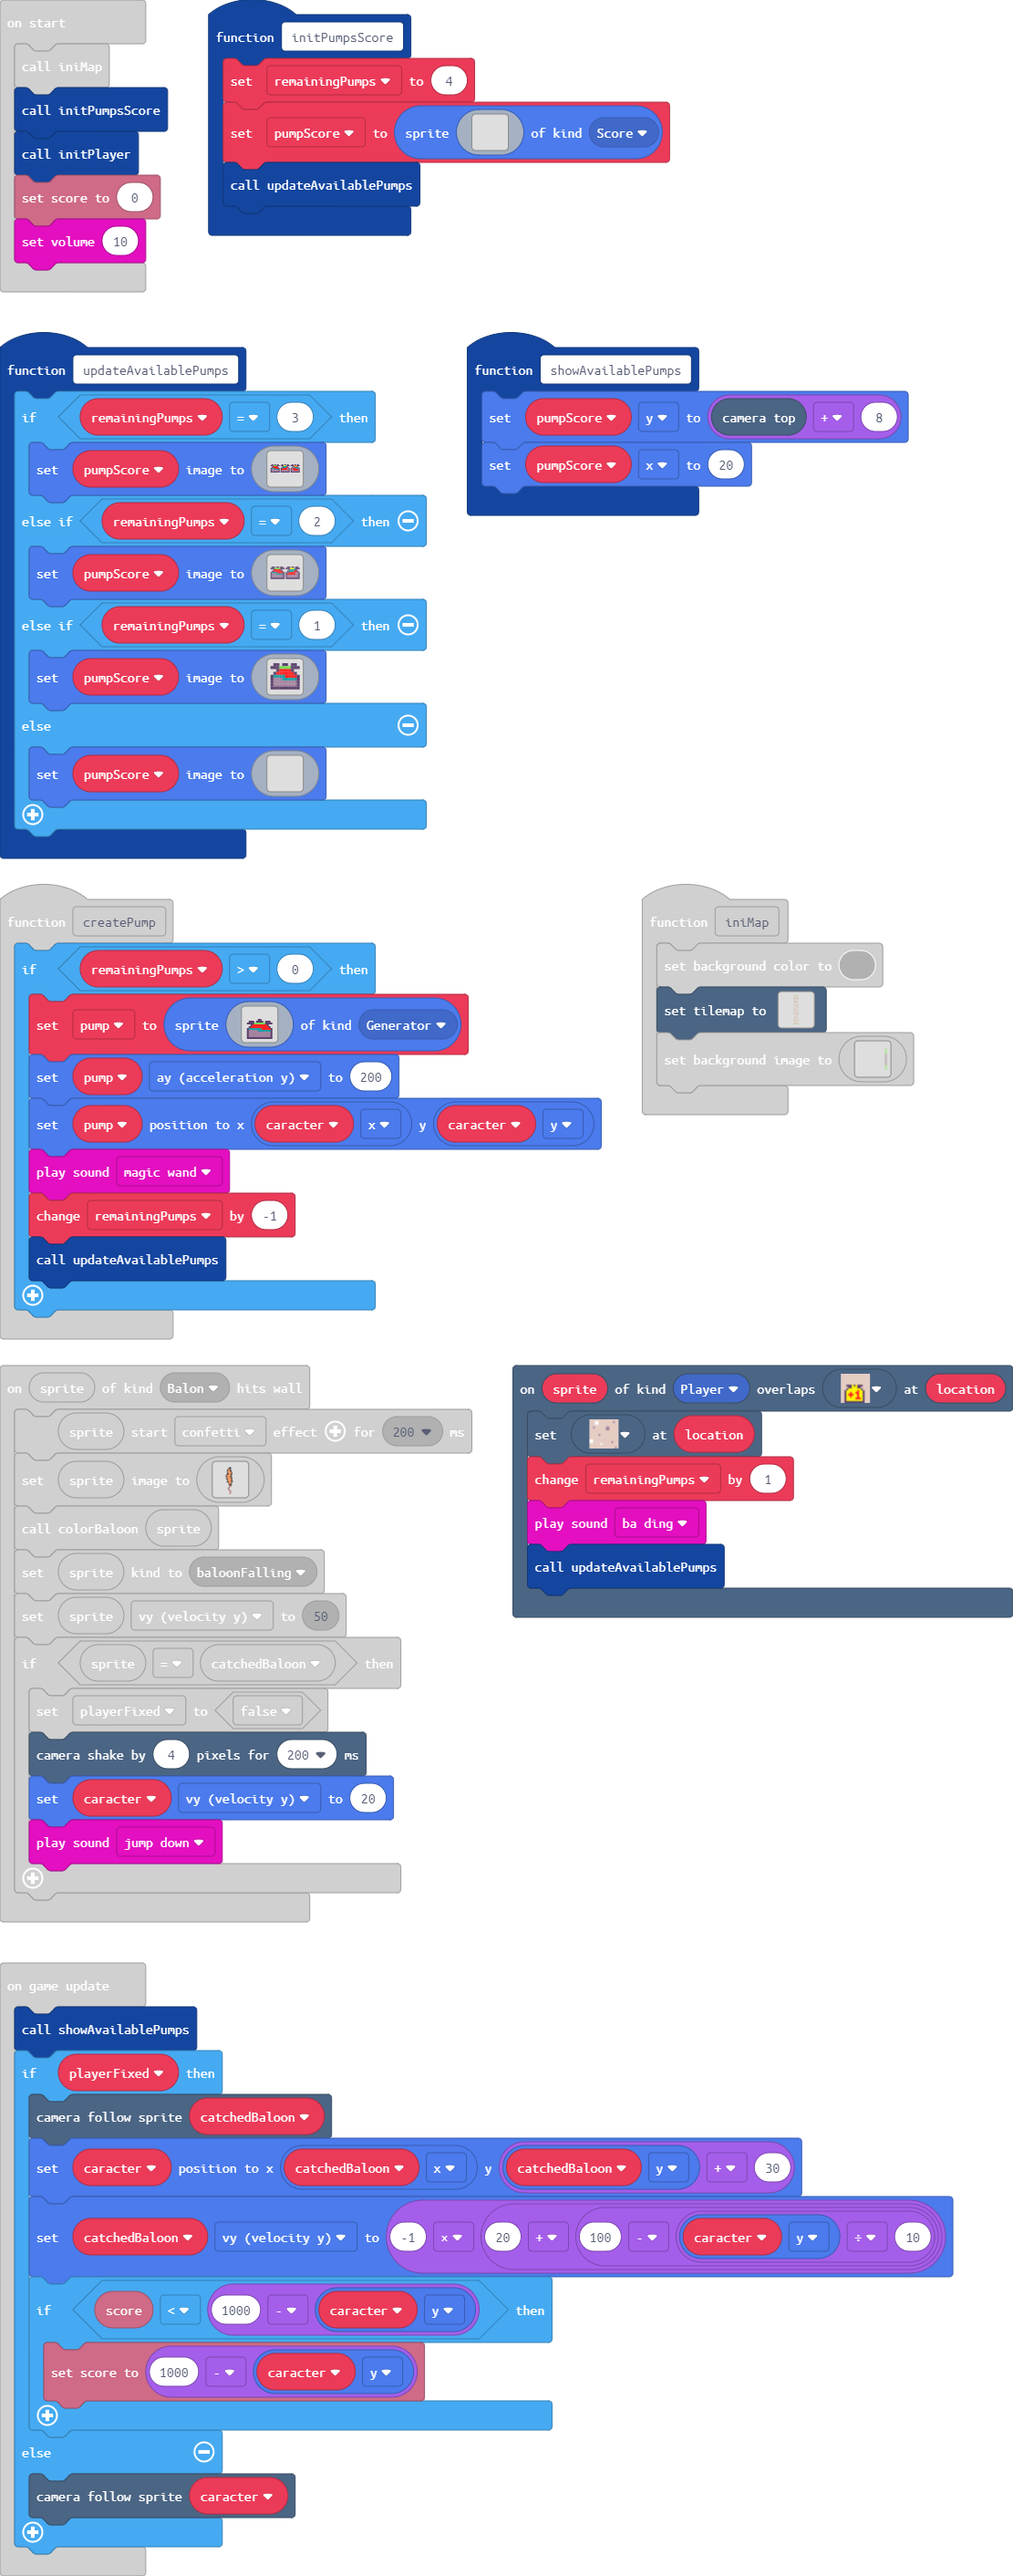
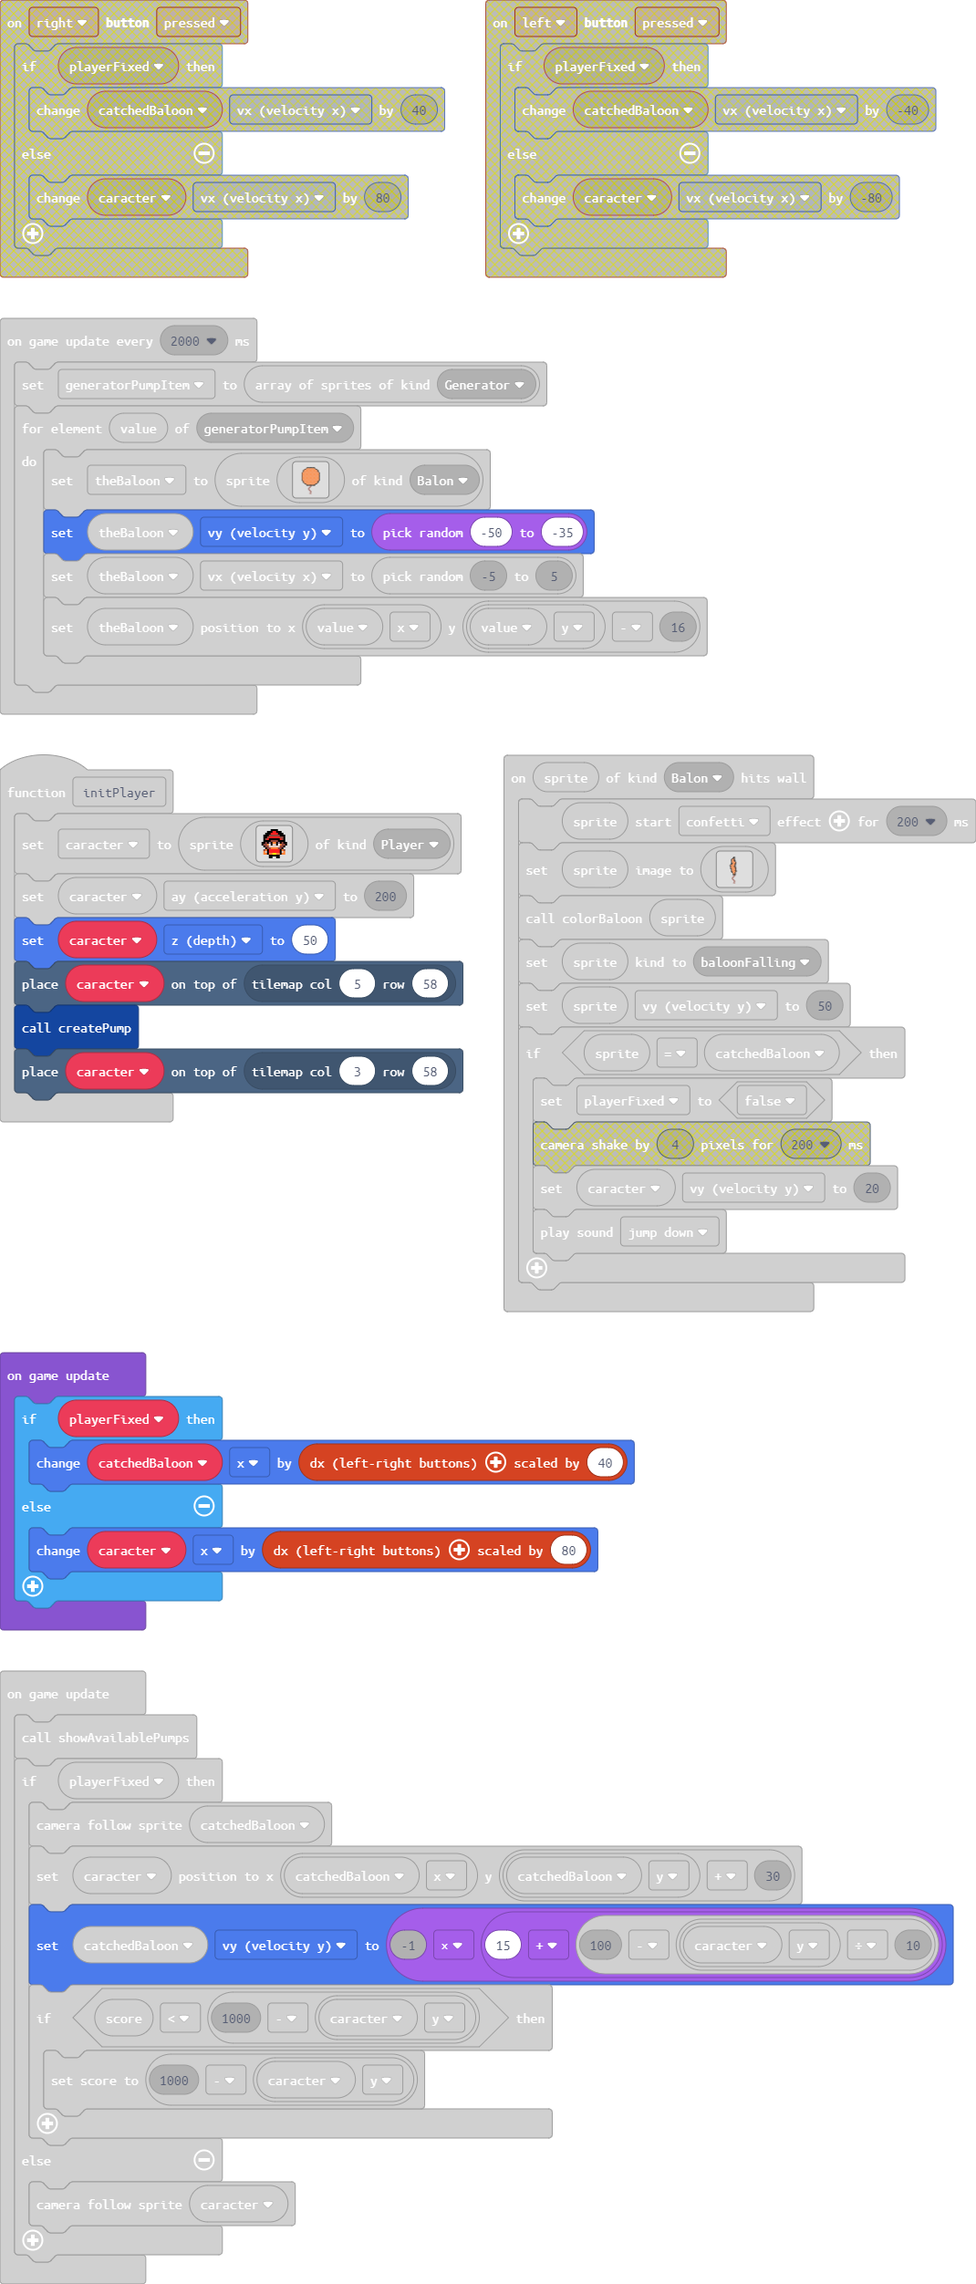
refining

diff --git a/main.ts b/main.ts
@@ -279,13 +279,6 @@ function iniMap () {
 . . . . . . . . . . . . . . . . . . . . . . . . . . . . . . . . . . . . . . . . . . . . . . . . . . . . . . . . . . . . . . . . . . . . . . . . . . . . . . . . . . . . . . . . . . . . . . . . . . . . . . . . . . . . . . . . . . . . . . . . . . . . . . . . . . . . . . . . . . . . . . . . . 7 7 7 7 7 7 7 7 7 7 7 7 7 7 7 
 `)
 }
-controller.left.onEvent(ControllerButtonEvent.Pressed, function () {
-    if (playerFixed) {
-        catchedBaloon.vx += -40
-    } else {
-        caracter.vx += -80
-    }
-})
 function createPump () {
     if (remainingPumps > 0) {
         pump = sprites.create(img`
@@ -333,6 +326,7 @@ function initPlayer () {
 . . . . . f f . . f f . . . . . 
 `, SpriteKind.Player)
     caracter.ay = 200
+    caracter.z = 50
     tiles.placeOnTile(caracter, tiles.getTileLocation(5, 58))
     createPump()
     tiles.placeOnTile(caracter, tiles.getTileLocation(3, 58))
@@ -389,7 +383,6 @@ scene.onHitWall(SpriteKind.Balon, function (sprite) {
     sprite.vy = 50
     if (sprite == catchedBaloon) {
         playerFixed = false
-        scene.cameraShake(4, 200)
         caracter.vy = 20
         music.jumpDown.play()
     }
@@ -411,13 +404,6 @@ controller.A.onEvent(ControllerButtonEvent.Pressed, function () {
 sprites.onCreated(SpriteKind.Balon, function (sprite) {
     sprites.setDataNumber(sprite, "color", Math.randomRange(1, 5))
     colorBaloon(sprite)
-})
-controller.right.onEvent(ControllerButtonEvent.Pressed, function () {
-    if (playerFixed) {
-        catchedBaloon.vx += 40
-    } else {
-        caracter.vx += 80
-    }
 })
 function updateAvailablePumps () {
     if (remainingPumps == 3) {
@@ -500,11 +486,11 @@ scene.onOverlapTile(SpriteKind.Player, myTiles.tile2, function (sprite, location
 })
 let theBaloon: Sprite = null
 let generatorPumpItem: Sprite[] = []
+let playerFixed = false
+let catchedBaloon: Sprite = null
+let caracter: Sprite = null
 let pump: Sprite = null
 let remainingPumps = 0
-let caracter: Sprite = null
-let catchedBaloon: Sprite = null
-let playerFixed = false
 let coloredBaloon: Image = null
 let pumpScore: Sprite = null
 iniMap()
@@ -557,9 +543,16 @@ f 4 4 4 4 4 4 4 4 4 4 4 4 4 4 4 4 4 4 4 4 4 4 4 f
 . . . . . . . . . . . e . . . . . . . . . . . . . 
 . . . . . . . . . . . . e . . . . . . . . . . . . 
 `, SpriteKind.Balon)
-        theBaloon.vy = -40
+        theBaloon.vy = Math.randomRange(-50, -35)
         theBaloon.vx = Math.randomRange(-5, 5)
         theBaloon.setPosition(value.x, value.y - 16)
+    }
+})
+game.onUpdate(function () {
+    if (playerFixed) {
+        catchedBaloon.x += controller.dx(40)
+    } else {
+        caracter.x += controller.dx(80)
     }
 })
 game.onUpdate(function () {
@@ -567,7 +560,7 @@ game.onUpdate(function () {
     if (playerFixed) {
         scene.cameraFollowSprite(catchedBaloon)
         caracter.setPosition(catchedBaloon.x, catchedBaloon.y + 30)
-        catchedBaloon.vy = -1 * (20 + (100 - caracter.y / 10))
+        catchedBaloon.vy = -1 * (15 + (100 - caracter.y / 10))
         if (info.score() < 1000 - caracter.y) {
             info.setScore(1000 - caracter.y)
         }
